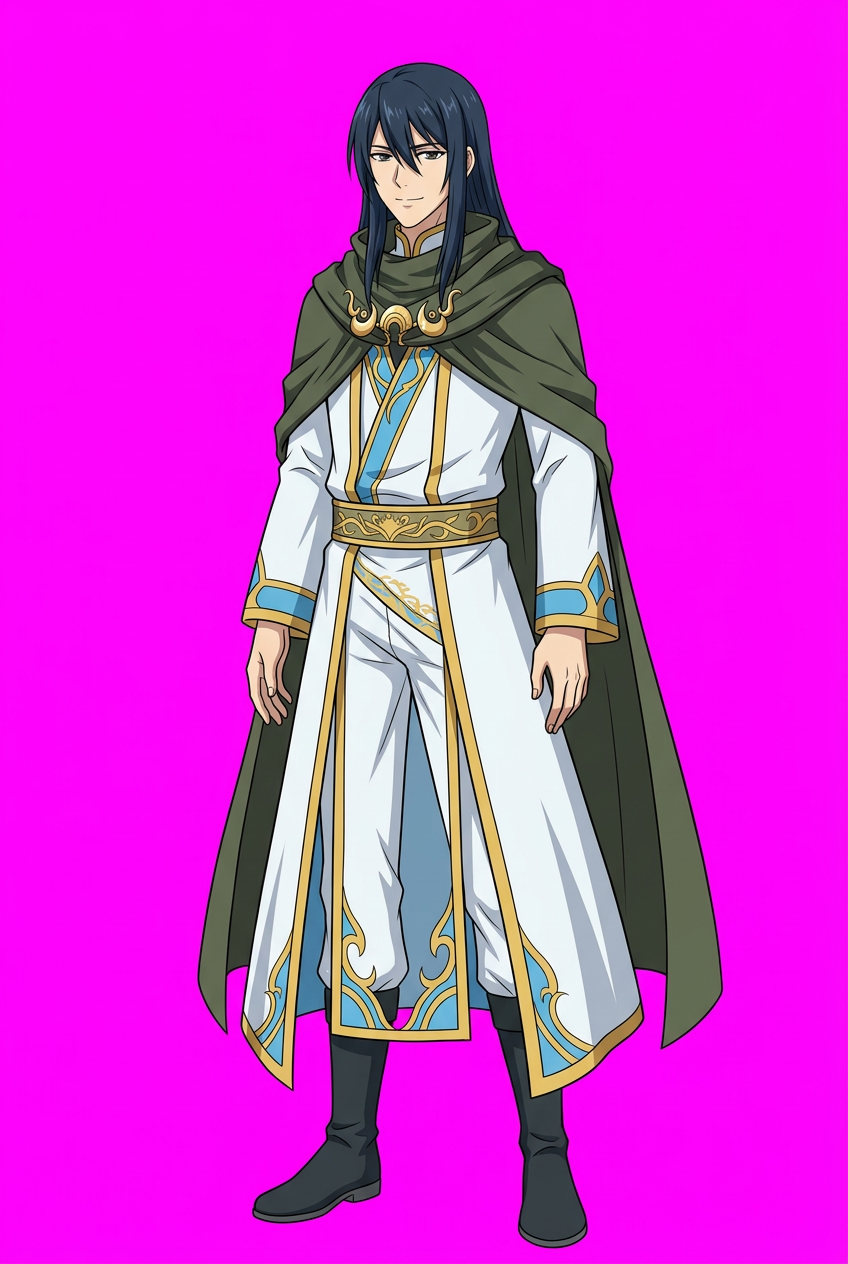
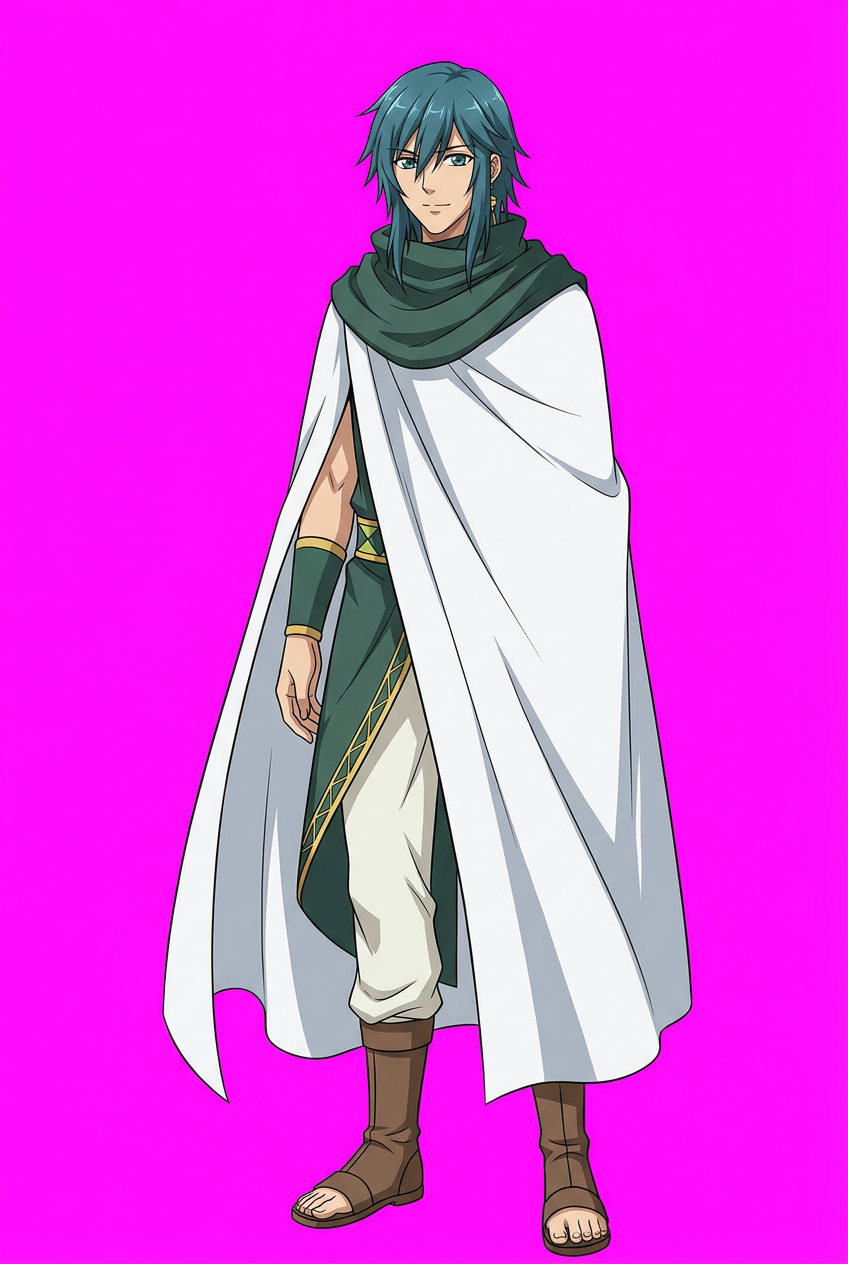
recheck: 萧厉 ok, 萧鼎 redrawn from manhua ch41; 青莲 refs c43

diff --git a/dev/design/漫画复核进度.md b/dev/design/漫画复核进度.md
@@ -1,0 +1,8 @@
+# 第1-8批 漫画逐一复核进度
+规则：每个角色先定"游戏里用哪一话的衣服"（见 服装规则_三档.md），再找那一话漫画原页并排对照；对不上→重画；对得上→补存漫画参考。
+
+| 角色 | 文件 | 漫画话数 | 结果 |
+|---|---|---|---|
+| 萧厉 | xiaoli | 40-41（石漠城） | ✅ 一致（白头带、青蓝刺猬头、白无袖交领+金项圈）。191话红发造型为后期，届时核对 |
+| 萧鼎 | xiaoding | 41 | ❌→已重画（青蓝蓬松长发、金耳环、墨绿围巾、白斗篷） |
+| 青莲地心火 | fire_lotus | 43-20/21 | 参考已存，待重画 |
